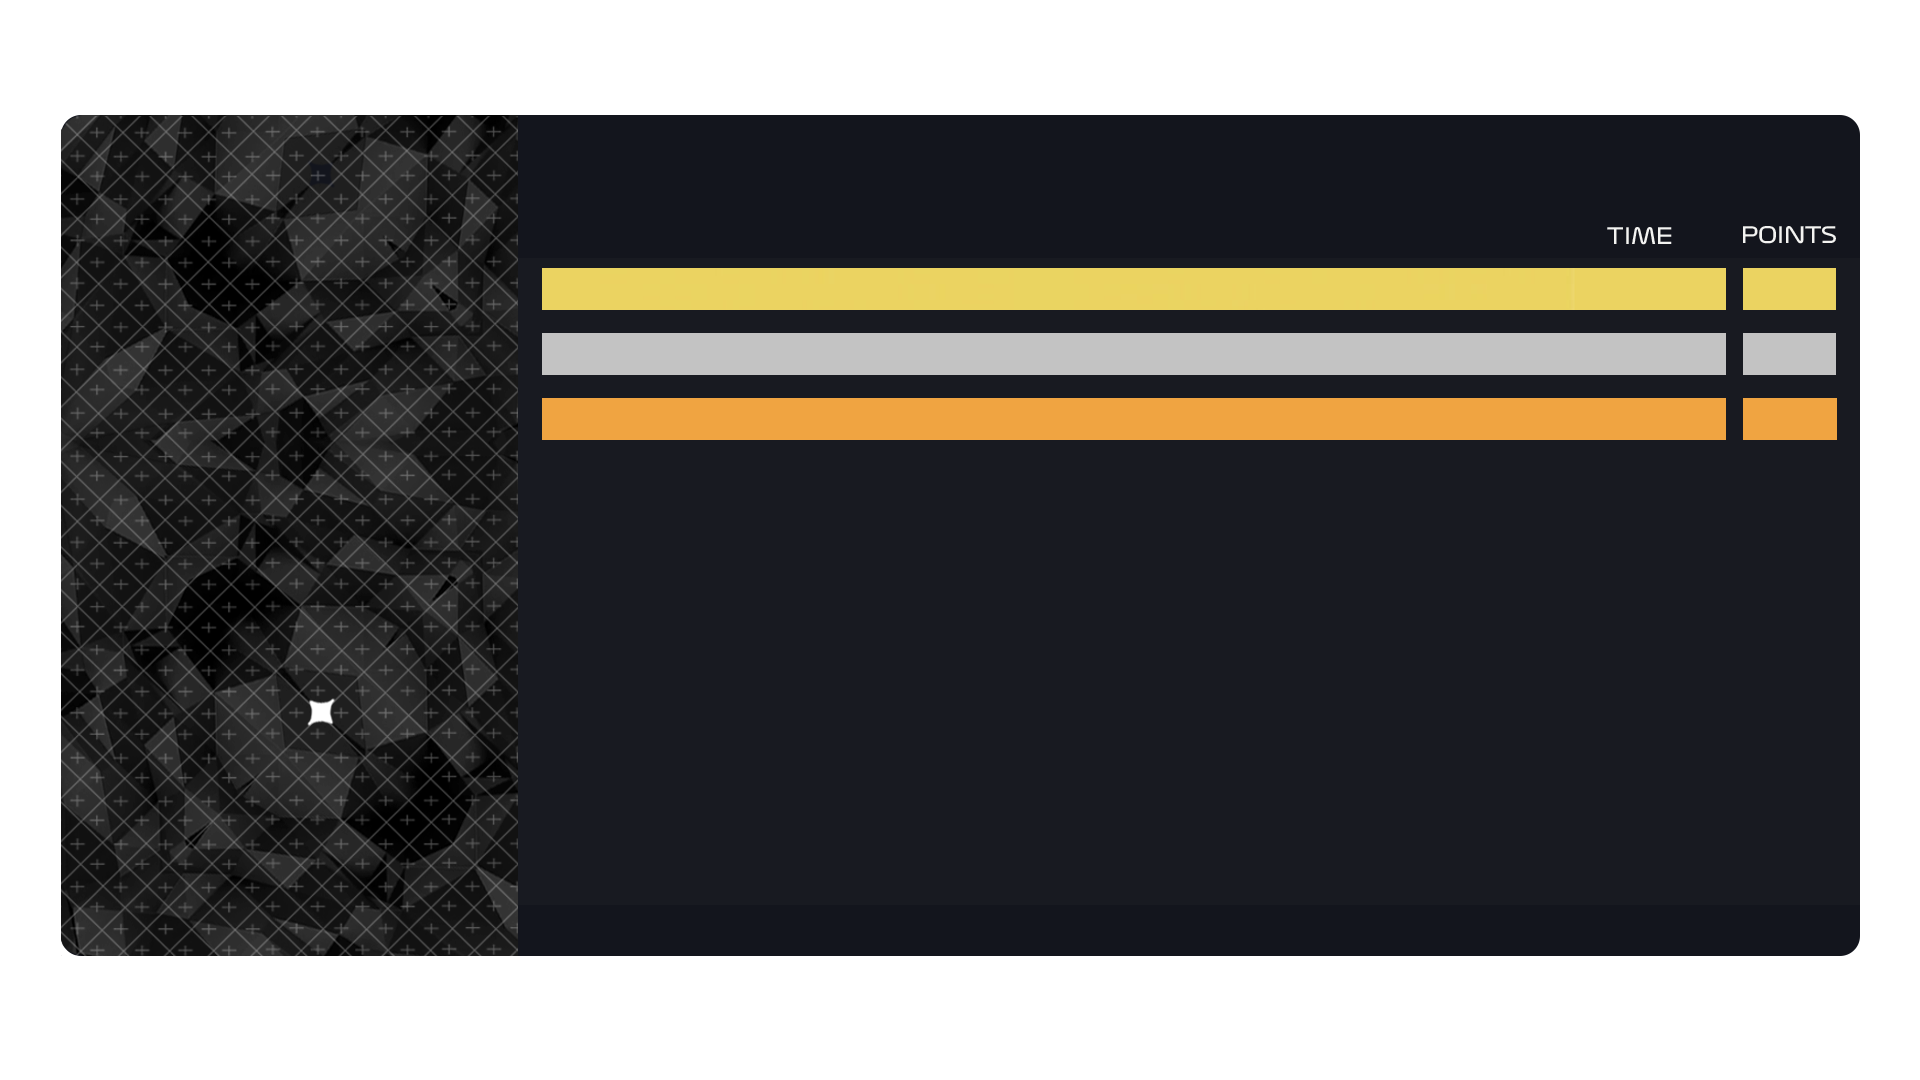
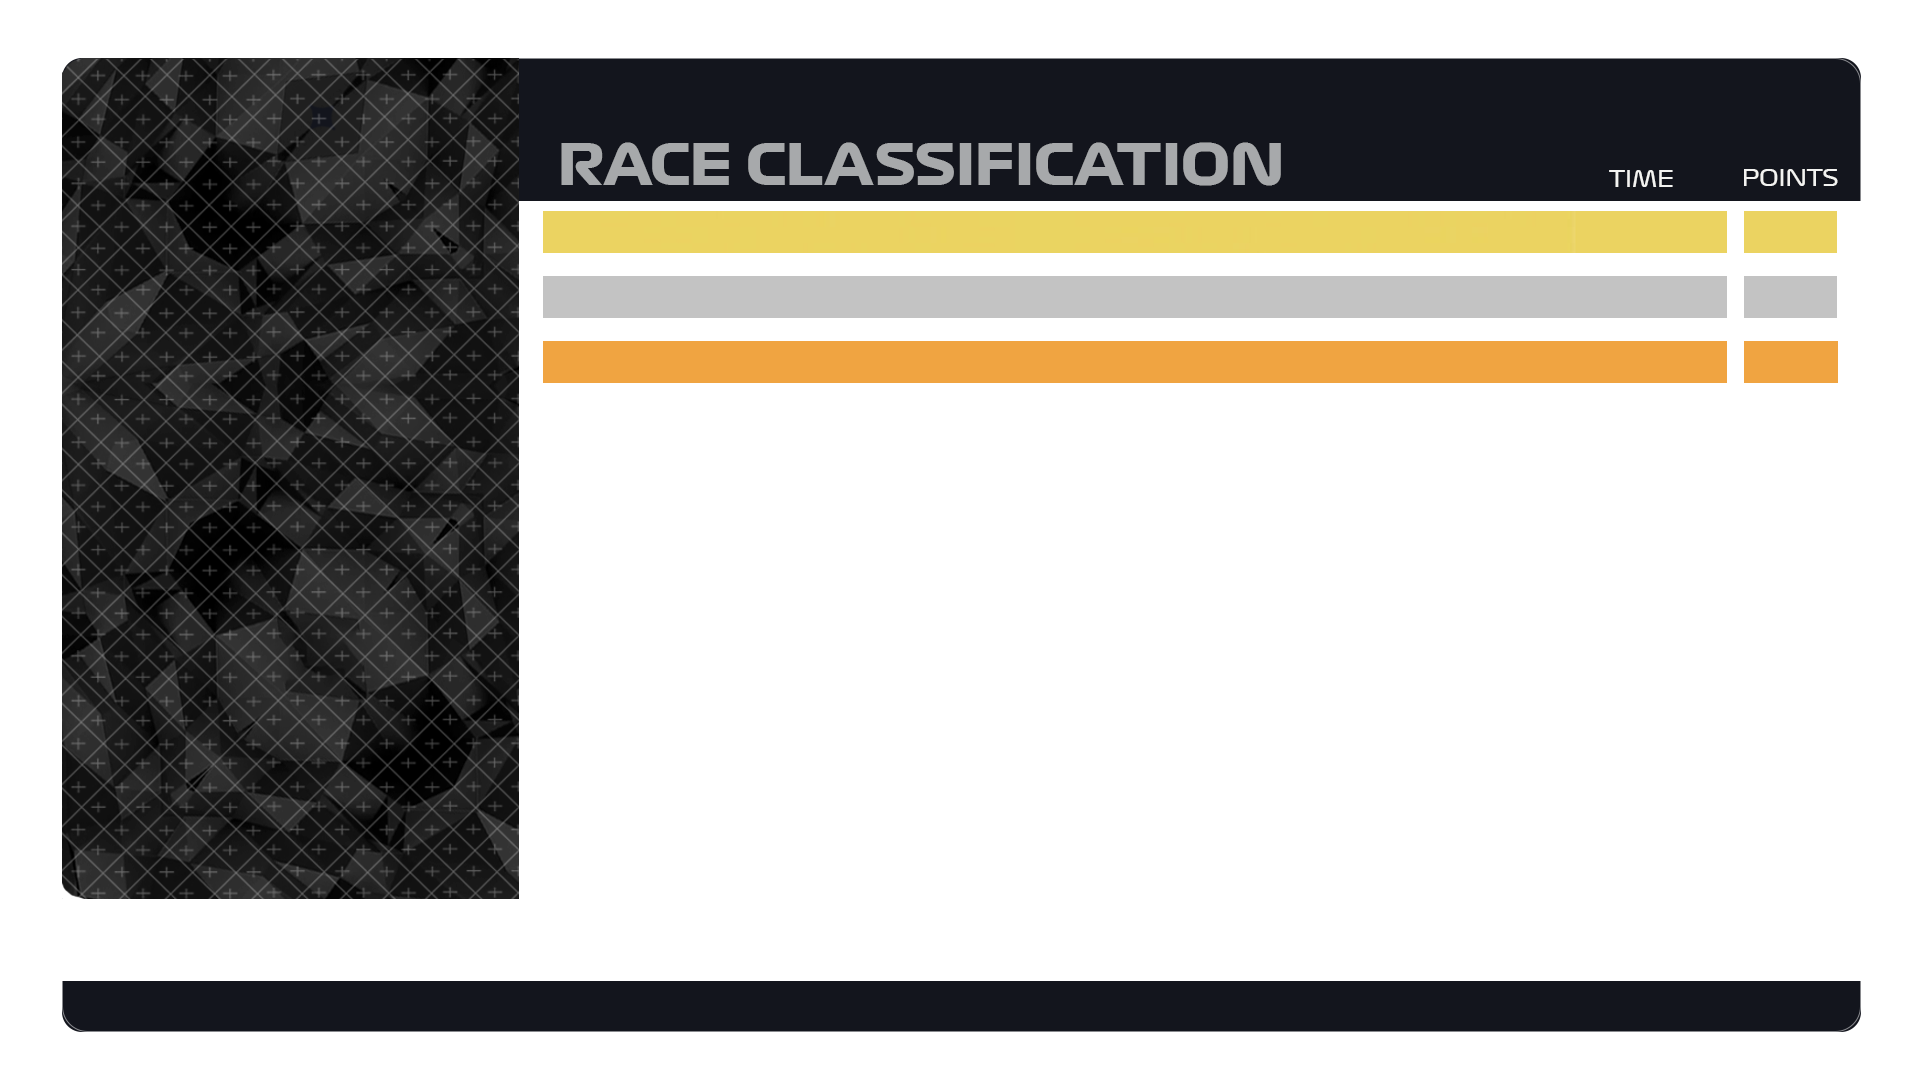
Anpassung der Größe auf 22 Fahrer und Fastest Lap handling

diff --git a/main.py b/main.py
@@ -43,15 +43,30 @@ class Winner:
         if(self.Team == "Audi F1 Team"):
             return "AUDI"
 
+class fastest_lap:
+    def __init__(self, Vorname="Vorname", Nachname="Nachname", Team="Test Team", lap_time="1000.0"):
+        self.Vorname = Vorname
+        self.Nachname = Nachname
+        self.Team = Team
+        self.lap_time = lap_time
+        
+    def get_laptime_formatted(self):
+        td = datetime.timedelta(seconds=float(self.lap_time))
+        # Format as mm:ss.SSS
+        minutes, sec = divmod(td.total_seconds(), 60)
+        return f"{int(minutes):02}:{sec:06.3f}"
+
 #Setup Variables
 
 width, height = 1920, 1080
-y_offset = 62
-first_name = 302 #310 unterseite erste Zeile
+y_offset = 65
+first_name = 243 #310 unterseite erste Zeile
+first_team_and_points = 232
 position_text = 556
 left_allignment = 620
 name_size = 20
 
+fastest_lap_position = (556, 1006)
 lastname_size = 30
 flag_width = 40
 flag_height = 26
@@ -71,7 +86,9 @@ winner_team_size = 55
 winner_name_pos = (288, 770)
 winner_name_size = 42
 winner = Winner([])
+fastest_lap_driver = fastest_lap()
 
+name_rennen = "Name des Rennens"
 
 # Load a font (optional: use default if you don't have one)
 race_titel = ImageFont.truetype("./fonts/Formula1-Bold_web.ttf", size=34)
@@ -87,21 +104,24 @@ pos_bold = ImageFont.truetype("./fonts/Formula1-Bold_web.ttf", size=position_siz
 xml_export = []
 driver_config = []
 rennergebnis = []
+fastest_laps = []
 
 
 
 def create_rennergebnis_page_1(data, filename="rennergebnisse_seite1.png"):
     # Create a transparent base image (RGBA mode)  
     final_image = Image.new("RGBA", (width, height), (0, 0, 0, 0))  # Fully transparent
+    classment_transparent = Image.open("./images/Classement_background.png").convert("RGBA")
     background = Image.open("./images/Rennergebnis_Hintergrund.png").convert("RGBA")
 
     # Paste images onto the final image at specified positions
+    mask = Image.new('L', classment_transparent.size, 200)  # 50% transparency
+    final_image.paste(classment_transparent, (0, 0), mask)  # The third argument is the mask for transparency
     final_image.paste(background, (0, 0), background)  # The third argument is the mask for transparency
     draw = ImageDraw.Draw(final_image)
 
-    # Draw text with semi-transparency
-    draw.text((557, 134), "FORMULA 1 BROS LEAGUE rF2 EIFEL GRAND PRIX 2024", font=race_titel, fill=(255, 255, 255, 255), anchor="lt")
-    draw.text((557, 193), "RACE CLASSIFICATION", font=race_classification, fill=(167, 169, 171, 255), anchor="lt")
+    # Draw Racetitel with semi-transparency
+    draw.text((557, 100), name_rennen, font=race_titel, fill=(255, 255, 255, 255), anchor="lt")
 
     #Draw race winner
     winner_overall = Image.open("./overalls/" + winner.Overall).convert("RGBA")
@@ -167,6 +187,8 @@ def create_rennergebnis_page_1(data, filename="rennergebnisse_seite1.png"):
             gained_points = "+2"
         elif(position == 9):
             gained_points = "+1"
+        else:
+            gained_points = "+0"
 
         
         if(position == 0):
@@ -181,15 +203,15 @@ def create_rennergebnis_page_1(data, filename="rennergebnisse_seite1.png"):
             #Nachname
             draw.text((left_allignment  + flag_width + spacer + name_length + spacer, first_name + (position * y_offset)), lastname, font=bold, fill=(0, 0, 0, 255), anchor="lb")
             #Teamname
-            draw.text((team_name_allignment , first_name + (position * y_offset)), team, font=regular, fill=(0, 0, 0, 255), anchor="lb")
+            draw.text((team_name_allignment , first_team_and_points + (position * y_offset)), team, font=regular, fill=(0, 0, 0, 255), anchor="lm")
             #Zeit
             td = datetime.timedelta(seconds=float(winner.finish_time))
             # Format as mm:ss.SSS
             minutes, sec = divmod(td.total_seconds(), 60)
             formatted = f"{int(minutes):02}:{sec:06.3f}"
-            draw.text((race_time_allignment , first_name + (position * y_offset)), formatted, font=regular, fill=(0, 0, 0, 255), anchor="rb")
+            draw.text((race_time_allignment , first_team_and_points + (position * y_offset)), formatted, font=regular, fill=(0, 0, 0, 255), anchor="rm")
             #Points
-            draw.text((points_pos_x, first_name + (position * y_offset)), gained_points, font=pos_bold, fill=(0, 0, 0, 255), anchor="rb")
+            draw.text((points_pos_x, first_team_and_points + (position * y_offset)), gained_points, font=pos_bold, fill=(0, 0, 0, 255), anchor="rm")
         else:
             #Draw Position
             draw.text((position_text, first_name + (position * y_offset)), str(position + 1), font=position_font, fill=(255, 255, 255, 255), anchor="lb")            
@@ -202,23 +224,31 @@ def create_rennergebnis_page_1(data, filename="rennergebnisse_seite1.png"):
             #Nachname
             draw.text((left_allignment  + flag_width + spacer + name_length + spacer, first_name + (position * y_offset)), lastname, font=bold, fill=(255, 255, 255, 255), anchor="lb")
             #Teamname
-            draw.text((team_name_allignment , first_name + (position * y_offset)), team, font=regular, fill=(255, 255, 255, 255), anchor="lb")
+            draw.text((team_name_allignment , first_team_and_points + (position * y_offset)), team, font=regular, fill=(255, 255, 255, 255), anchor="lm")
             #Zeit
             if (driver_time == "DNS"):
-                draw.text((race_time_allignment , first_name + (position * y_offset)), "DNS", font=regular, fill=(255, 255, 255, 255), anchor="rb")
+                draw.text((race_time_allignment , first_team_and_points + (position * y_offset)), "DNS", font=regular, fill=(255, 255, 255, 255), anchor="rm")
             elif (driver_time == "DNF"):
-                draw.text((race_time_allignment , first_name + (position * y_offset)), "DNF", font=regular, fill=(255, 255, 255, 255), anchor="rb")            
+                draw.text((race_time_allignment , first_team_and_points + (position * y_offset)), "DNF", font=regular, fill=(255, 255, 255, 255), anchor="rm")            
             elif ("Lap" in driver_time):
-                draw.text((race_time_allignment , first_name + (position * y_offset)), driver_time, font=regular, fill=(255, 255, 255, 255), anchor="rb")
+                draw.text((race_time_allignment , first_team_and_points + (position * y_offset)), driver_time, font=regular, fill=(255, 255, 255, 255), anchor="rm")
             else:
-                draw.text((race_time_allignment , first_name + (position * y_offset)), f"+{(float(driver_time) - float(winner.finish_time)):.3f}", font=regular, fill=(255, 255, 255, 255), anchor="rm")
+                time_behind_leader = float(driver_time) - float(winner.finish_time)
+                if(time_behind_leader < 10):
+                    draw.text((race_time_allignment , first_team_and_points + (position * y_offset)), f"+0{(time_behind_leader):.3f}", font=regular, fill=(255, 255, 255, 255), anchor="rm")
+                else:
+                    draw.text((race_time_allignment , first_team_and_points + (position * y_offset)), f"+{(time_behind_leader):.3f}", font=regular, fill=(255, 255, 255, 255), anchor="rm")
             #Points
-            draw.text((points_pos_x, first_name + (position * y_offset)), gained_points, font=pos_bold, fill=(255, 255, 255, 255), anchor="rb")
+            draw.text((points_pos_x, first_team_and_points + (position * y_offset)), gained_points, font=pos_bold, fill=(255, 255, 255, 255), anchor="rm")
 
         # Update position for the next name
         position += 1
 
-    
+    ### Draw fsatess Lap
+    bbox = draw.textbbox((-100, -100), "FASTEST LAP", font=regular)
+    name_length = bbox[2] - bbox[0]
+    draw.text(fastest_lap_position, "FASTEST LAP", font=regular, fill=(255, 0, 255, 255), anchor="lm")
+    draw.text((fastest_lap_position[0] + name_length + spacer + 5, fastest_lap_position[1]), f"{fastest_lap_driver.Nachname}     {fastest_lap_driver.Team}     {fastest_lap_driver.get_laptime_formatted()}     (+1 Point)", font=regular, fill=(255, 255, 255, 255), anchor="lm")
 
     # Save the final image
     final_image.save(filename, format="PNG")
@@ -227,15 +257,17 @@ def create_rennergebnis_page_1(data, filename="rennergebnisse_seite1.png"):
 def create_rennergebnis_page_2(data, filename="rennergebnisse_seite2.png"):
     # Create a transparent base image (RGBA mode)  
     final_image = Image.new("RGBA", (width, height), (0, 0, 0, 0))  # Fully transparent
+    classment_transparent = Image.open("./images/Classement_background.png").convert("RGBA")
     background = Image.open("./images/Rennergebnis_Hintergrund_2.png").convert("RGBA")
 
     # Paste images onto the final image at specified positions
+    mask = Image.new('L', classment_transparent.size, 200)  # 50% transparency
+    final_image.paste(classment_transparent, (0, 0), mask)  # The third argument is the mask for transparency
     final_image.paste(background, (0, 0), background)  # The third argument is the mask for transparency
     draw = ImageDraw.Draw(final_image)
 
-    # Draw text with semi-transparency
-    draw.text((557, 134), "FORMULA 1 BROS LEAGUE rF2 EIFEL GRAND PRIX 2024", font=race_titel, fill=(255, 255, 255, 255), anchor="lt")
-    draw.text((557, 193), "RACE CLASSIFICATION", font=race_classification, fill=(167, 169, 171, 255), anchor="lt")
+    # Draw Racetitel with semi-transparency
+    draw.text((557, 100), name_rennen, font=race_titel, fill=(255, 255, 255, 255), anchor="lt")
 
     #Draw race winner
     winner_overall = Image.open("./overalls/" + winner.Overall).convert("RGBA")
@@ -311,8 +343,9 @@ def create_rennergebnis_page_2(data, filename="rennergebnisse_seite2.png"):
         name_length = bbox[2] - bbox[0]
                 
         gained_points = "+0"
+        
         #Draw Position
-        draw.text((position_text, first_name + (position * y_offset)), str(position + 10), font=position_font, fill=(255, 255, 255, 255), anchor="lb")            
+        draw.text((position_text, first_name + (position * y_offset)), str(position + 12), font=position_font, fill=(255, 255, 255, 255), anchor="lb")            
         #Draw Flag
         flag_image = Image.open("./flags/" + flag + ".png").convert("RGBA")
         flag_image = flag_image.resize((flag_width, flag_height))
@@ -322,21 +355,32 @@ def create_rennergebnis_page_2(data, filename="rennergebnisse_seite2.png"):
         #Nachname
         draw.text((left_allignment  + flag_width + spacer + name_length + spacer, first_name + (position * y_offset)), lastname, font=bold, fill=(255, 255, 255, 255), anchor="lb")
         #Teamname
-        draw.text((team_name_allignment , first_name + (position * y_offset)), team, font=regular, fill=(255, 255, 255, 255), anchor="lb")
+        draw.text((team_name_allignment , first_team_and_points + (position * y_offset)), team, font=regular, fill=(255, 255, 255, 255), anchor="lm")
         #Zeit
         if (driver_time == "DNS"):
-            draw.text((race_time_allignment , first_name + (position * y_offset)), "DNS", font=regular, fill=(255, 255, 255, 255), anchor="rb")
+            draw.text((race_time_allignment , first_team_and_points + (position * y_offset)), "DNS", font=regular, fill=(255, 255, 255, 255), anchor="rm")
         elif (driver_time == "DNF"):
-            draw.text((race_time_allignment , first_name + (position * y_offset)), "DNF", font=regular, fill=(255, 255, 255, 255), anchor="rb")            
+            draw.text((race_time_allignment , first_team_and_points + (position * y_offset)), "DNF", font=regular, fill=(255, 255, 255, 255), anchor="rm")            
         elif ("Lap" in driver_time):
-            draw.text((race_time_allignment , first_name + (position * y_offset)), driver_time, font=regular, fill=(255, 255, 255, 255), anchor="rb")
+            draw.text((race_time_allignment , first_team_and_points + (position * y_offset)), driver_time, font=regular, fill=(255, 255, 255, 255), anchor="rm")
         else:
-            draw.text((race_time_allignment , first_name + (position * y_offset)), f"+{(float(driver_time) - float(winner.finish_time)):.3f}", font=regular, fill=(255, 255, 255, 255), anchor="rm")
+            time_behind_leader = float(driver_time) - float(winner.finish_time)
+            if(time_behind_leader < 10):
+                draw.text((race_time_allignment , first_team_and_points + (position * y_offset)), f"+0{(time_behind_leader):.3f}", font=regular, fill=(255, 255, 255, 255), anchor="rm")
+            else:
+                draw.text((race_time_allignment , first_team_and_points + (position * y_offset)), f"+{(time_behind_leader):.3f}", font=regular, fill=(255, 255, 255, 255), anchor="rm")
         #Points
-        draw.text((points_pos_x, first_name + (position * y_offset)), gained_points, font=pos_bold, fill=(255, 255, 255, 255), anchor="rb")
+        draw.text((points_pos_x, first_team_and_points + (position * y_offset)), gained_points, font=pos_bold, fill=(255, 255, 255, 255), anchor="rm")
 
         # Update position for the next name
         position += 1
+
+    ### Draw fsatess Lap
+    bbox = draw.textbbox((-100, -100), "FASTEST LAP", font=regular)
+    name_length = bbox[2] - bbox[0]
+    draw.text(fastest_lap_position, "FASTEST LAP", font=regular, fill=(255, 0, 255, 255), anchor="lm")
+    draw.text((fastest_lap_position[0] + name_length + spacer + 5, fastest_lap_position[1]), f"{fastest_lap_driver.Nachname}     {fastest_lap_driver.Team}     {fastest_lap_driver.get_laptime_formatted()}     (+1 Point)", font=regular, fill=(255, 255, 255, 255), anchor="lm")
+
 
     
 
@@ -372,6 +416,7 @@ def read_raceresult_xml():
         racetime = driver.find('FinishTime')
         finished = driver.find('FinishStatus')        
         finished_laps = driver.find('Laps')
+        fastes_lap = driver.find('BestLapTime')
 
         if (category_elem is None) or not ("F1S13" in category_elem.text):                        
             continue
@@ -379,24 +424,29 @@ def read_raceresult_xml():
         if (finished is None):
             print("finished ist None")
             continue
+        
+        if fastes_lap is None:
+            fastes_lap = "1000"
+        else:
+            fastes_lap = fastes_lap.text
 
         if finished.text == "None":
-            xml_export.append((name_elem.text, position.text, "DNS"))
+            xml_export.append((name_elem.text, position.text, "DNS", fastes_lap))
             continue
 
         if finished.text == "DNF":
-            xml_export.append((name_elem.text, position.text, "DNF"))
+            xml_export.append((name_elem.text, position.text, "DNF", fastes_lap))
             continue
 
         if int(finished_laps.text) < int(race_laps.text):
             if (int(race_laps.text) - int(finished_laps.text) == 1):
-                xml_export.append((name_elem.text, position.text, "+1 Lap"))
+                xml_export.append((name_elem.text, position.text, "+1 Lap", fastes_lap))
             else:
-                xml_export.append((name_elem.text, position.text, f"+ {int(race_laps.text) - int(finished_laps.text)} Laps"))
+                xml_export.append((name_elem.text, position.text, f"+ {int(race_laps.text) - int(finished_laps.text)} Laps", fastes_lap))
             continue
 
         if finished.text == "Finished Normally":
-            xml_export.append((name_elem.text, position.text, racetime.text))
+            xml_export.append((name_elem.text, position.text, racetime.text, fastes_lap))
             continue    
     ### Sortiere nach Position
     xml_export.sort(key=lambda x: int(x[1]))  # Sort by position
@@ -414,30 +464,34 @@ def read_driver_config():
             driver_config.append(row)    
 
 def result_preprocessing():
-    ### get sorted Race Result with config file ###    
+    ### get sorted Race Result with config file ###   
+    fastest = fastest_lap()
     for entry in xml_export:
         found = False
         for config in driver_config:
             if (config[0] + " " + config[1]).upper() == entry[0].upper():                
                 rennergebnis.append([config, entry[2]])                                            
                 driver_config.remove(config)
-                found = True                                
+                found = True         
+                if(float(entry[3]) < float(fastest.lap_time)):
+                    fastest = fastest_lap(config[0], config[1], config[3], entry[3])
                 break
         if not found:
             print("Kein Eintrag für " + entry[0] + " gefunden!")   
-
-    ### set global winner time
-    winner_finish_time = xml_export[0][2]
+    
+    print("Fertig mit der Ergebnisverarbeitung.")
+    return Winner(rennergebnis[0][0], rennergebnis[0][1]), fastest
 
 if __name__ == "__main__":
 
     read_raceresult_xml()
     read_driver_config()
-    result_preprocessing()    
-    winner = Winner(rennergebnis[0][0], rennergebnis[0][1])
+    winner, fastest_lap_driver = result_preprocessing() 
+    name_rennen = "FORMULA 1 BROS LEAGUE rF2 EIFEL GRAND PRIX 2024"
+    
     # create badges for betreuer
-    fahrer_seite1 = rennergebnis[:10]  # First 10 entries for page 1
-    fahrer_seite2 = rennergebnis[10:]  # Next 10 entries for page 2    
+    fahrer_seite1 = rennergebnis[:12]  # First 11 entries for page 1
+    fahrer_seite2 = rennergebnis[12:]  # Next 11 entries for page 2    
     create_rennergebnis_page_1(fahrer_seite1)
     create_rennergebnis_page_2(fahrer_seite2)
     
